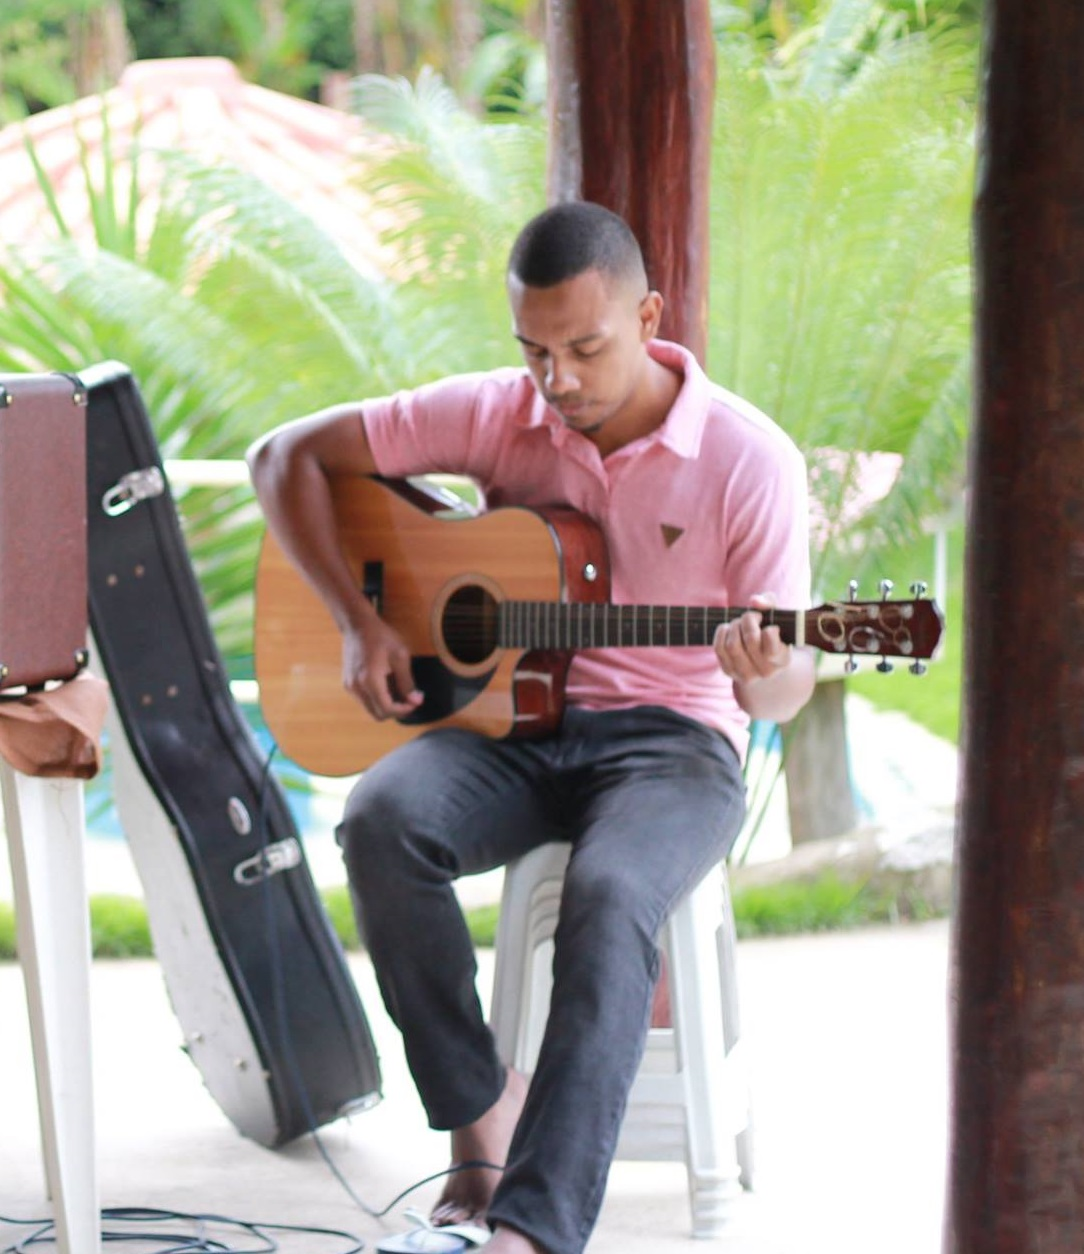
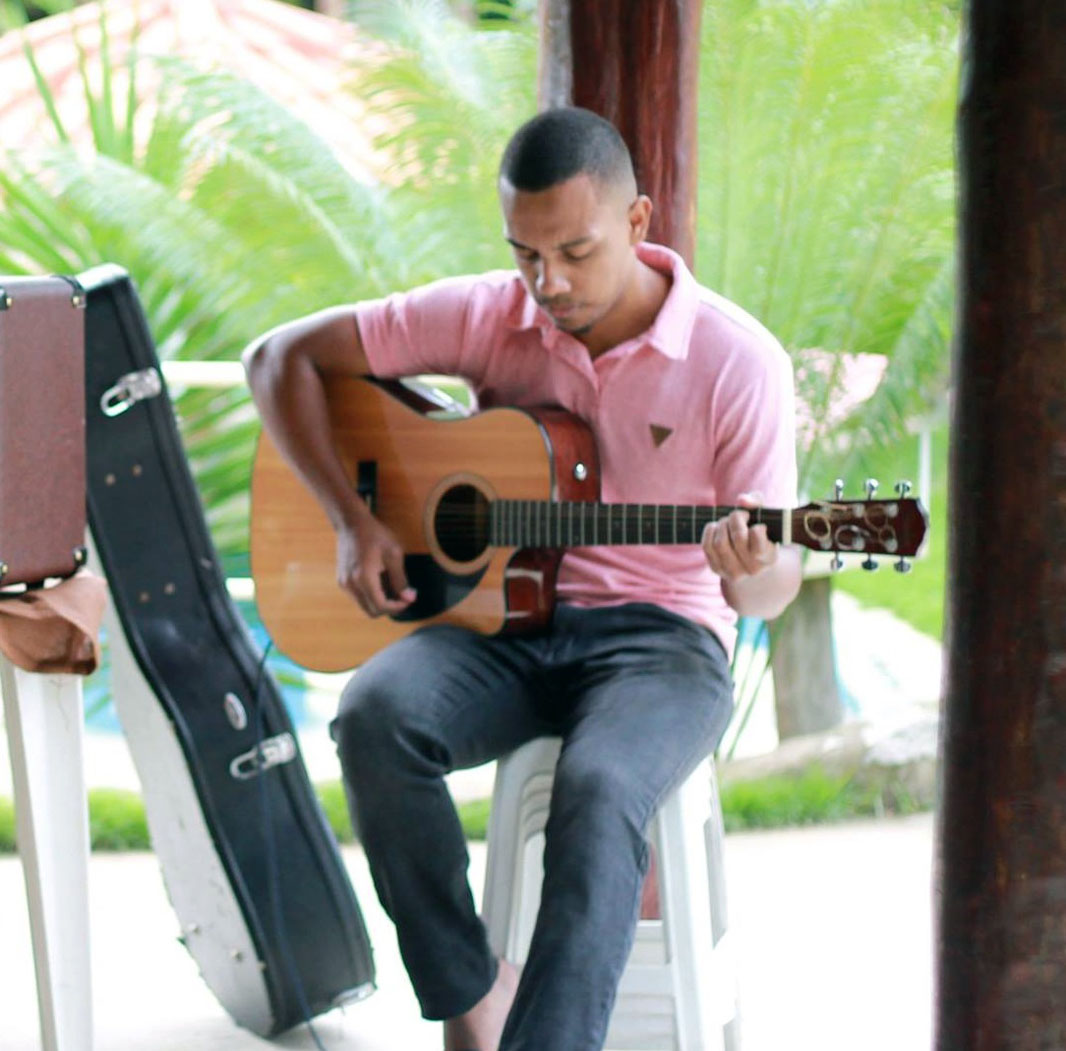
novas mudanças

diff --git a/src/app/time/time.component.html b/src/app/time/time.component.html
@@ -16,9 +16,14 @@
   
       <!-- Grid column -->
       <div class="col-lg-4 col-md-7 mb-lg-0 mb-6">
-        <div class="avatar mx-auto">
+
+          <div class="image-cropper">
+              <img src="../../assets/img/dinei1.jpeg"  class="rounded" alt="Sample avatar">
+              <!-- <img src="http://www.electricvelocity.com.au/Upload/Blogs/smart-e-bike-side_2.jpg" class="rounded" /> -->
+          </div>
+        <!-- <div class="avatar mx-auto">
           <img src="../../assets/img/dinei1.jpeg"  class="rounded-circle z-depth-1" alt="Sample avatar">
-        </div>
+        </div> -->
         <h5 class="font-weight-bold mt-4 mb-3">Dinei Ramos</h5>
         <p class="text-uppercase blue-text"><strong>Líder de jovens</strong></p>
         <!-- <p class="grey-text">Sed ut perspiciatis unde omnis iste natus error sit voluptatem ipsa accusantium doloremque rem laudantium totam aperiam.</p> -->
@@ -37,9 +42,14 @@
   
       <!-- Grid column -->
       <div class="col-lg-4 col-md-7 mb-lg-0 mb-6">
-        <div class="avatar mx-auto">
-          <img src="../../assets/img/juliano.jpg"  class="rounded-circle z-depth-1" alt="Sample avatar">
-        </div>
+
+          <div class="image-cropper">
+              <img src="../../assets/img/juliano.jpeg"  class="rounded" alt="Sample avatar">
+              <!-- <img src="http://www.electricvelocity.com.au/Upload/Blogs/smart-e-bike-side_2.jpg" class="rounded" /> -->
+          </div>
+        <!-- <div class="avatar mx-auto">
+          <img src="../../assets/img/juliano.jpeg"  class="rounded-circle z-depth-1" alt="Sample avatar">
+        </div> -->
         <h5 class="font-weight-bold mt-4 mb-3">Juliano Coutinho</h5>
         <p class="text-uppercase blue-text"><strong>Líder de jovens</strong></p>
         <!-- <p class="grey-text">Sed ut perspiciatis unde omnis iste natus error sit voluptatem ipsa accusantium doloremque rem laudantium totam aperiam.</p> -->
@@ -58,9 +68,14 @@
   
       <!-- Grid column -->
       <div class="col-lg-4 col-md-7 mb-lg-0">
-        <div class="avatar mx-auto">
-          <img src="../../assets/img/thiago.jpg"  class="rounded-circle z-depth-1" alt="Sample avatar">
-        </div>
+          <div class="image-cropper">
+              <img src="../../assets/img/thiago.jpeg"  class="rounded" alt="Sample avatar">
+              <!-- <img src="http://www.electricvelocity.com.au/Upload/Blogs/smart-e-bike-side_2.jpg" class="rounded" /> -->
+          </div>
+
+        <!-- <div class="avatar mx-auto">
+          <img src="../../assets/img/thiago.jpeg" class="rounded-circle z-depth-1" alt="Sample avatar">
+        </div> -->
         <h5 class="font-weight-bold mt-4 mb-3">Thiago Mendonça</h5>
         <p class="text-uppercase blue-text"><strong>Líder de jovens</strong></p>
         <!-- <p class="grey-text">Sed ut perspiciatis unde omnis iste natus error sit voluptatem ipsa accusantium doloremque rem laudantium totam aperiam.</p> -->
@@ -93,9 +108,14 @@
       <div class="row">        
         <!-- Grid column -->
         <div class="col-lg-6 col-md-6 mb-lg-0 mb-6">
-          <div class="avatar mx-auto">
-            <img src="../../assets/img/gui.jpg"  class="rounded-circle z-depth-1" alt="Sample avatar">
-          </div>
+
+            <div class="image-cropper">
+                <img src="../../assets/img/gui.jpeg"  class="rounded" alt="Sample avatar">
+                <!-- <img src="http://www.electricvelocity.com.au/Upload/Blogs/smart-e-bike-side_2.jpg" class="rounded" /> -->
+            </div>
+          <!-- <div class="avatar mx-auto">
+            <img src="../../assets/img/gui.jpeg"  class="rounded-circle z-depth-1" alt="Sample avatar">
+          </div> -->
           <h5 class="font-weight-bold mt-4 mb-3">Guilherme Pontes</h5>
           <p class="text-uppercase blue-text"><strong>Regente</strong></p>
           <!-- <p class="grey-text">Sed ut perspiciatis unde omnis iste natus error sit voluptatem ipsa accusantium doloremque rem laudantium totam aperiam.</p> -->
@@ -114,9 +134,14 @@
     
         <!-- Grid column -->
         <div class="col-lg-6 col-md-6 mb-lg-0 mb-6">
-          <div class="avatar mx-auto">
-            <img src="../../assets/img/keila.jpg"  class="rounded-circle z-depth-1" alt="Sample avatar">
-          </div>
+            <div class="image-cropper">
+                <img src="../../assets/img/keila.jpeg"  class="rounded" alt="Sample avatar">
+                <!-- <img src="http://www.electricvelocity.com.au/Upload/Blogs/smart-e-bike-side_2.jpg" class="rounded" /> -->
+            </div>
+
+          <!-- <div class="avatar mx-auto">
+            <img src="../../assets/img/keila.jpeg"  class="rounded-circle z-depth-1" alt="Sample avatar">
+          </div> -->
           <h5 class="font-weight-bold mt-4 mb-3">Keila </h5>
           <p class="text-uppercase blue-text"><strong>Regente</strong></p>
           <!-- <p class="grey-text">Sed ut perspiciatis unde omnis iste natus error sit voluptatem ipsa accusantium doloremque rem laudantium totam aperiam.</p> -->
@@ -148,9 +173,14 @@
         <div class="row">        
           <!-- Grid column -->
           <div class="col-lg-6 col-md-6 mb-lg-0 mb-6">
-            <div class="avatar mx-auto">
+
+              <div class="image-cropper">
+                  <img src="../../assets/img/lazaro.jpg"  class="rounded" alt="Sample avatar">
+                  <!-- <img src="http://www.electricvelocity.com.au/Upload/Blogs/smart-e-bike-side_2.jpg" class="rounded" /> -->
+              </div>
+            <!-- <div class="avatar mx-auto">
               <img src="../../assets/img/lazaro.jpg"  class="rounded-circle z-depth-1" alt="Sample avatar">
-            </div>
+            </div> -->
             <h5 class="font-weight-bold mt-4 mb-3">Lazaro  Anjo</h5>
             <p class="text-uppercase blue-text"><strong>Coordenador</strong></p>
             <!-- <p class="grey-text">Sed ut perspiciatis unde omnis iste natus error sit voluptatem ipsa accusantium doloremque rem laudantium totam aperiam.</p> -->
@@ -169,9 +199,14 @@
       
           <!-- Grid column -->
           <div class="col-lg-6 col-md-6 mb-lg-0 mb-6">
-            <div class="avatar mx-auto">
-              <img src="../../assets/img/jhuan3.jpg"  class="rounded-circle z-depth-1" alt="Sample avatar">
-            </div>
+
+              <div class="image-cropper">
+                  <img src="../../assets/img/jhuan.jpeg"  class="rounded" alt="Sample avatar">
+                  <!-- <img src="http://www.electricvelocity.com.au/Upload/Blogs/smart-e-bike-side_2.jpg" class="rounded" /> -->
+              </div>
+            <!-- <div class="avatar mx-auto">
+              <img src="../../assets/img/jhuan.jpeg"  class="rounded-circle z-depth-1" alt="Sample avatar">
+            </div> -->
             <h5 class="font-weight-bold mt-4 mb-3">Jhuan Santos</h5>
             <p class="text-uppercase blue-text"><strong>Coordenador</strong></p>
             <!-- <p class="grey-text">Sed ut perspiciatis unde omnis iste natus error sit voluptatem ipsa accusantium doloremque rem laudantium totam aperiam.</p> -->
@@ -203,9 +238,14 @@
         <div class="row">        
           <!-- Grid column -->
           <div class="col-lg-6 col-md-6 mb-lg-0 mb-6">
-            <div class="avatar mx-auto">
-              <img src="../../assets/img/thaty.jpg"  class="rounded-circle z-depth-1" alt="Sample avatar">
-            </div>
+
+              <div class="image-cropper">
+                  <img src="../../assets/img/thaty.jpeg"  class="rounded" alt="Sample avatar">
+                  <!-- <img src="http://www.electricvelocity.com.au/Upload/Blogs/smart-e-bike-side_2.jpg" class="rounded" /> -->
+              </div>
+            <!-- <div class="avatar mx-auto">
+              <img src="../../assets/img/thaty.jpeg"  class="rounded-circle z-depth-1" alt="Sample avatar">
+            </div> -->
             <h5 class="font-weight-bold mt-4 mb-3">Thatiany Rocha</h5>
             <p class="text-uppercase blue-text"><strong>Secretária</strong></p>
             <!-- <p class="grey-text">Sed ut perspiciatis unde omnis iste natus error sit voluptatem ipsa accusantium doloremque rem laudantium totam aperiam.</p> -->
@@ -224,9 +264,14 @@
       
           <!-- Grid column -->
           <div class="col-lg-6 col-md-6 mb-lg-0 mb-6">
-            <div class="avatar mx-auto">
-              <img src="../../assets/img/andressa.jpg"  class="rounded-circle z-depth-1" alt="Sample avatar">
-            </div>
+
+              <div class="image-cropper">
+                  <img src="../../assets/img/andressa.jpeg"  class="rounded" alt="Sample avatar">
+                  <!-- <img src="http://www.electricvelocity.com.au/Upload/Blogs/smart-e-bike-side_2.jpg" class="rounded" /> -->
+              </div>
+            <!-- <div class="avatar mx-auto">
+              <img src="../../assets/img/andressa.jpeg"  class="rounded-circle z-depth-1" alt="Sample avatar">
+            </div> -->
             <h5 class="font-weight-bold mt-4 mb-3">Andressa Anjo</h5>
             <p class="text-uppercase blue-text"><strong>Tesoureira</strong></p>
             <!-- <p class="grey-text">Sed ut perspiciatis unde omnis iste natus error sit voluptatem ipsa accusantium doloremque rem laudantium totam aperiam.</p> -->

diff --git a/src/styles.css b/src/styles.css
@@ -248,7 +248,7 @@ a:hover, a:active {
 --------------------------------------------------------------*/
 .hero-slider {
     /* max-height: 820px; */
-    max-height: 80vh;
+    max-height: 100vh;
 }
 
 .hero-content-wrap {
@@ -265,7 +265,7 @@ a:hover, a:active {
 .hero-content-wrap img {
     display: block;
     width: 100vw;
-    height: 90vh;
+    height: 100vh;
     margin: 0 auto;
     -o-object-fit: cover;
     object-fit: cover;

diff --git a/src/app/time/time.component.css b/src/app/time/time.component.css
@@ -1,0 +1,15 @@
+.image-cropper {
+    width: 30vh;
+    height: 30vh;
+    position: relative;
+    overflow: hidden;
+    border-radius: 50%;
+    margin: 0 auto;
+}
+
+img {
+    display: inline;
+    margin: 0 auto;
+    height: 100%;
+    width: auto;
+}
